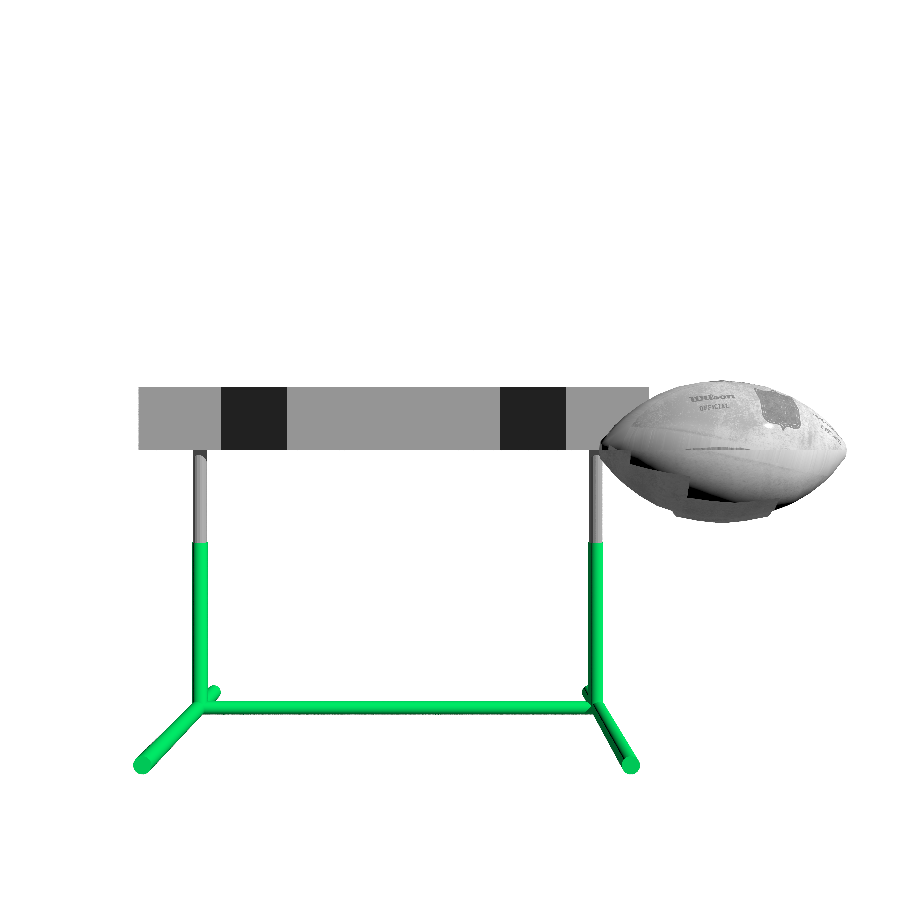
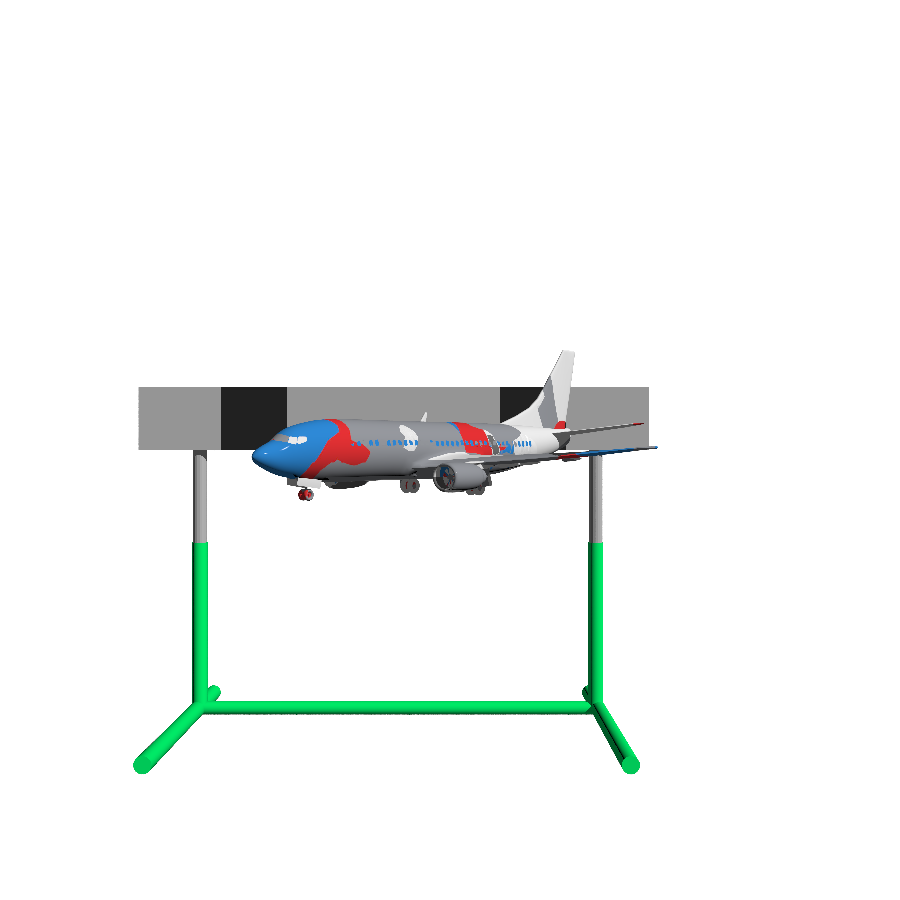
Textur geht immer noch nicht

Changed region(s): [[0.28, 0.3733, 0.9333, 0.5911]]

diff --git a/src/cgg/a08/Main.java b/src/cgg/a08/Main.java
@@ -36,11 +36,13 @@ public class Main {
     Mat44 transformationKamera2 = move(vec3(0));
     Lochkamera kamera = new Lochkamera(Math.PI / 4, width, height, transformationKamera2);
 
-    List<MeshData> liste = Wavefront.loadMeshData("data/wilson-football/fb_low.obj"); //Football
-    TexturedPhongMaterial bild = new TexturedPhongMaterial(new ImageTexture("data/wilson-football/fb_low_lambert2SG_Roughness.png"), new ConstantColor(white), new ConstantColor(color(1000.0)));
+    //List<MeshData> liste = Wavefront.loadMeshData("data/wilson-football/fb_low.obj"); //Football
+    //TexturedPhongMaterial bild = new TexturedPhongMaterial(new ImageTexture("data/wilson-football/fb_low_lambert2SG_Roughness.png"), new ConstantColor(white), new ConstantColor(color(1000.0)));
     //List<MeshData> liste = Wavefront.loadMeshData("data/Gondel/model.obj"); // Gondel
     // List<MeshData> liste = Wavefront.loadMeshData("data/Haus/source/low-poly-home.obj"); //Haus
     // List<MeshData> liste = Wavefront.loadMeshData("data/Baum/Canstar Christmas Tree.obj"); //Weihnachtsbaum
+    List<MeshData> liste = Wavefront.loadMeshData("data/Flugzeug2/Airplane_2.obj"); //Flugzeug
+    TexturedPhongMaterial bild = new TexturedPhongMaterial(new ImageTexture("data/Flugzeug2/None_albedo.jpeg"), new ConstantColor(white), new ConstantColor(color(1000.0)));
     
     //ab hier Ball erstellen
     List<TriangleData> trData = new ArrayList<>();
@@ -50,10 +52,11 @@ public class Main {
     List<Triangle> tr = new ArrayList<>();
     for(int i=0; i < trData.size(); i++) {
         tr.add(new Triangle(trData.get(i).v0(), trData.get(i).v1(), trData.get(i).v2()));
+        //System.out.println("v0: " + trData.get(i).v0().uv() + " v1: " + trData.get(i).v1().uv() + "v2: " + trData.get(i).v2().uv());
     }
 
     TriangleMesh trMesh = new TriangleMesh(tr, bild);
-    Group ball = new Group(move(20, 0,-80), trMesh);
+    Group ball = new Group(multiply(move(0, 0,-8), rotate(vec3(0,1,0), -40),rotate(vec3(0,0,1), 180)), trMesh);
     //bis hier
 
     Group huerde = huerdeErstellen();

diff --git a/src/cgg/a08/Triangle.java b/src/cgg/a08/Triangle.java
@@ -5,9 +5,7 @@ import static tools.Functions.*;
 
 import cgg.a02.Hit;
 import cgg.a02.Ray;
-import cgg.a04.Material;
 import cgg.a04.PhongMaterial;
-import cgg.a04.TexturedPhongMaterial;
 import cgg.a05.Shape;
 import tools.BoundingBox;
 import tools.Vec2;
@@ -47,14 +45,18 @@ public class Triangle implements Shape {
         double v = flaeche20P/flaeche012;
         double w = flaeche01P/flaeche012;
         Vec3 uvw = vec3(u,v,w);
-        Vec3 interNormale = interplolate(v0.normal(), v1.normal(), v2.normal(), uvw);
+        Vec3 interNormale = normalize(interplolate(v0.normal(), v1.normal(), v2.normal(), uvw));
         Vec2 interTextur = interplolate(v0.uv(), v1.uv(), v2.uv(), uvw);
+        //System.out.println(interTextur);
         PhongMaterial farbe = null;
         if(v0.color() != magenta) { //wenn Farbe von dreieck geaendert wurde, diese Farbe als Material nehmen (magenta ist default Farbe bei Dreieck)
             farbe = new PhongMaterial(v0.color(), v0.color(), 1000);
         }
 
-        if(almostEqual(u+v+w, 1) && u <= 1 && u >= 0 && v <= 1 && v >= 0 && w <= 1 && w >= 0){
+        if(almostEqual(u+v+w, 1.0) && u <= 1 && u >= 0 && v <= 1 && v >= 0 && w <= 1 && w >= 0){
+            //System.out.println("v0: " + v0.uv() + " v1: " + v1.uv() + "v2: " +v2.uv());
+            //System.out.println(interTextur);
+            //System.out.println("Baryzentrische Gewichte: u=" + u + ", v=" + v + ", w=" + w);
             return new Hit(t, ray.gibStrahlPunkt(t), interNormale, farbe, this, interTextur); //Material fuer Dreieck wird in triangleMesh gesetzt
         }
         else {
@@ -67,7 +69,8 @@ public class Triangle implements Shape {
     }
 
     private double berechneFlaeche(Vec3 a, Vec3 b, Vec3 c){
-        Vec3 kreuzprodukt = cross(subtract(a, c),subtract(b, c));
+        //Vec3 kreuzprodukt = cross(subtract(a, c),subtract(b, c));
+        Vec3 kreuzprodukt = cross(subtract(b, a),subtract(c, a));
         double flaeche = length(kreuzprodukt)/2;
         return flaeche;
     }

diff --git a/src/cgg/a08/TriangleMesh.java b/src/cgg/a08/TriangleMesh.java
@@ -37,12 +37,10 @@ public class TriangleMesh implements Shape {
         }
 
         int trennen = split(liste);
-
         KdTree links = construct(liste.subList(0, trennen));
         KdTree rechts = construct(liste.subList(trennen, liste.size()));
 
         KdTree tree = new KdTree(links, rechts, null);
-
         return tree;
     }
 
@@ -82,7 +80,6 @@ public class TriangleMesh implements Shape {
         });
 
         return liste.size() / 2;
-
     }
 
     @Override
@@ -102,8 +99,7 @@ public class TriangleMesh implements Shape {
         Hit h2 = triangleTree.getRightKdTree().intersect(ray);
         Hit h2m = null;
         if (h2 != null && h2.getMaterial() == null) {
-            h2m = new Hit(h2.getT(), h2.getTrefferPunkt(), h2.getNormalenVektor(), material, h2.getShape(),
-                    h2.getuv());
+            h2m = new Hit(h2.getT(), h2.getTrefferPunkt(), h2.getNormalenVektor(), material, h2.getShape(), h2.getuv());
         }
         else {
             h2m = h2;
